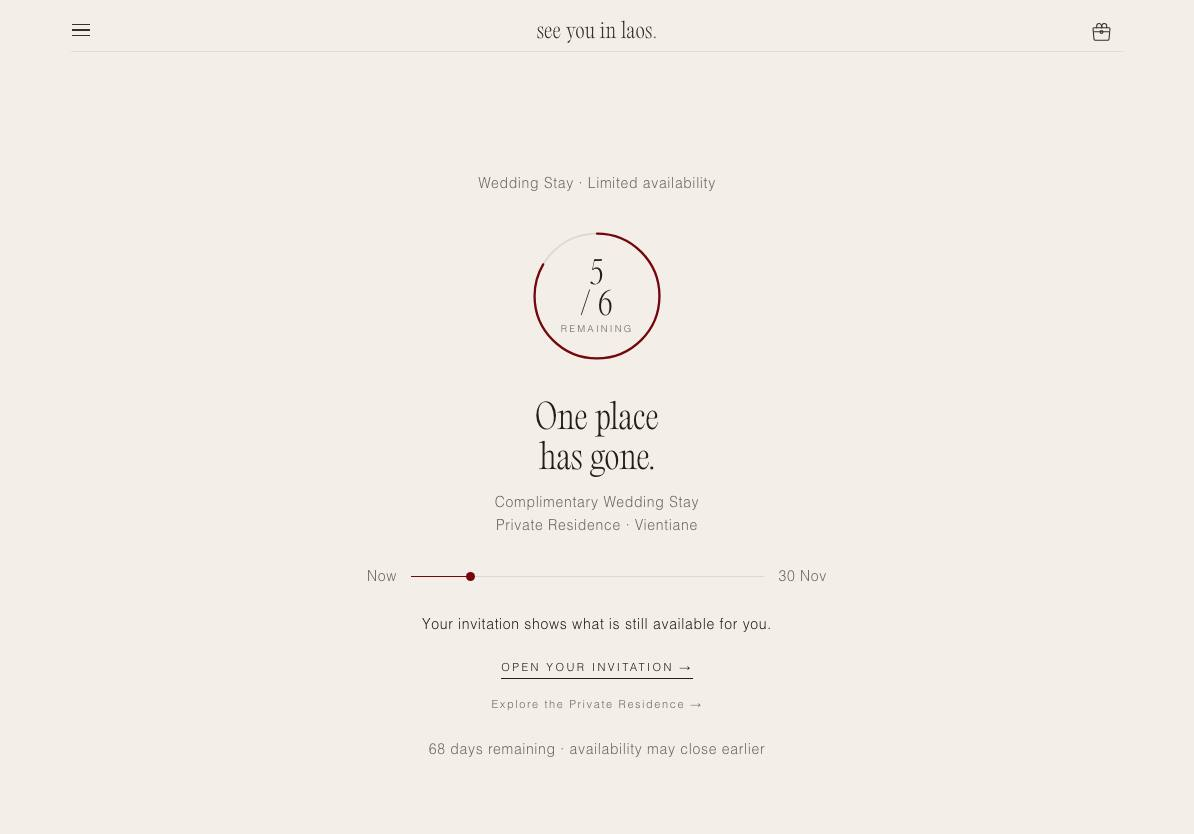
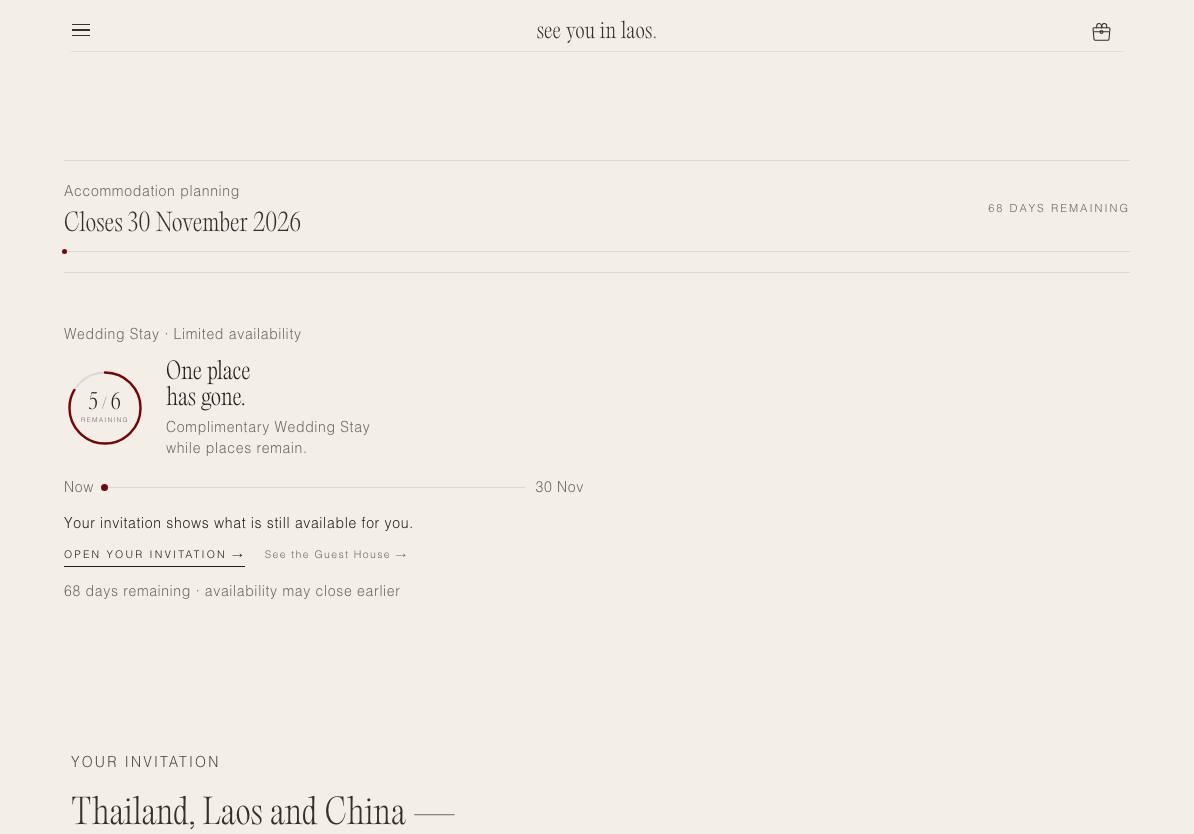
AVAILABILITY OBJECT · the live proof of the correction at 19dc482: production serves availability.js?v=9aaaf1f8 80 s after the push (deployment 26e78c9d-e444-4456-8384-6dd2374fbedf) and the object is compact again — 37.6 % of a 390 px phone, 23.2 % of iPad portrait, 33.2 % of iPad landscape, 30.8 % 
Claude-Session: https://claude.ai/code/session_01DWqY1vUeuuVVmPzjdWZhn7

diff --git a/docs/acceptance/2026-09-23-availability-object/README.md b/docs/acceptance/2026-09-23-availability-object/README.md
@@ -153,3 +153,46 @@ wording — "while places remain." and "See the Guest House" in DE/TH/JA, the in
 Screenshots: `stage/*-two-signals.jpg` (as a visitor sees it) and `stage/*-compact-5of6.jpg` (with
 one place taken by a synthetic guest, released again immediately).
 
+
+---
+
+## 7 · Live — the correction at `19dc482`
+
+Deployed by the Owner's release path (push to `main` → Cloudflare Workers Build), serving
+`assets/availability.js?v=9aaaf1f8` **80 s** after the push.
+Deployment **26e78c9d-e444-4456-8384-6dd2374fbedf** (2026-09-23T05:27:33Z).
+
+**`live-ro.mjs` 11/11**, read-only — no code entered, no guest signed in, nothing written:
+
+| | 390 | 834×1194 | 1194×834 | 1440 |
+|---|---|---|---|---|
+| the object's share of the screen | **37.6 %** | 23.2 % | 33.2 % | 30.8 % |
+| ring | **74 px** | 82 px | 82 px | 82 px |
+| the count | **5 / 6** on one line | 5 / 6 | 5 / 6 | 5 / 6 |
+| ring beside its status | ✓ | ✓ | ✓ | ✓ |
+| planning hairline present | ✓ | ✓ | ✓ | ✓ |
+| object's line = bar's hairline = today's calendar share | ✓ | ✓ | ✓ | ✓ |
+| "Private Residence" | **absent** | absent | absent | absent |
+
+Production reads **5 / 6 · "One place has gone."** — a real guest holds one of the six places, so
+the live object shows the approved state from the real engine. On 23 September the dot sits at the
+"Now" end because today *is* the day the planning window opens; the served date-travel proof shows
+it at 27.54 % on 12 October with the count unchanged.
+
+**Parity 294/294** · **release-014 live-ro 25/25** · **infrastructure freeze intact** (one Worker ·
+workers.dev · GitHub Pages disabled).
+**Production data untouched** — identical before and after: 38 occupancies · 0 waitlisted ·
+12 seat holds · 104 draft actors (15 with drafts).
+
+Screenshots of the live page at all four widths: `live/`.
+
+### The whole run
+
+| | |
+|---|---|
+| unit | **487/487** (`test/availability.test.mjs` 11, rewritten) |
+| gates | **28/28** (`RELEASE CHECK PASSED`) |
+| stage E2E | **265/265** — stay-deadline 33 · release-014 35 · release-013 36 · four-point 48 · account-IA 35 · profile-return 18 · stage-graph 40 · hero-map-media 20 |
+| live | 11 + 25 + parity 294 |
+
+**Codex:** PENDING — EXTERNAL QUOTA LIMIT (attempted once; quota returns 24 Sep 2026 22:19).
